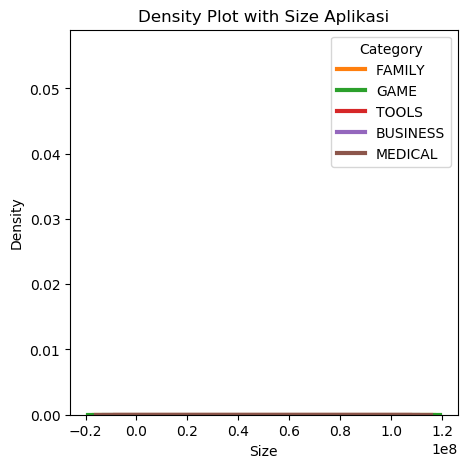
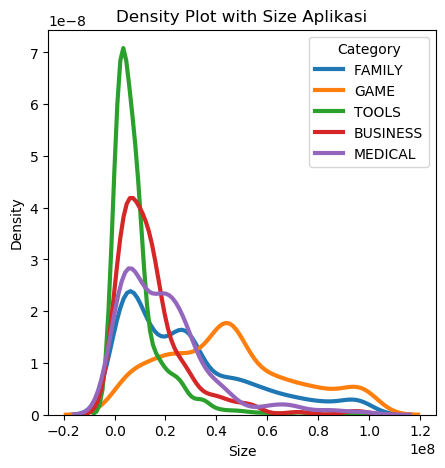
Dashboard Flask UI

diff --git a/app.py b/app.py
@@ -126,7 +126,8 @@ def index():
     # List of five category to plot
     categories = ['FAMILY', 'GAME', 'TOOLS',
          'BUSINESS', 'MEDICAL']
-
+    fig = plt.figure(figsize=(5,5))
+    fig.add_subplot()
     # Iterate through the five categories
     for category in categories:
         # Subset to the category
